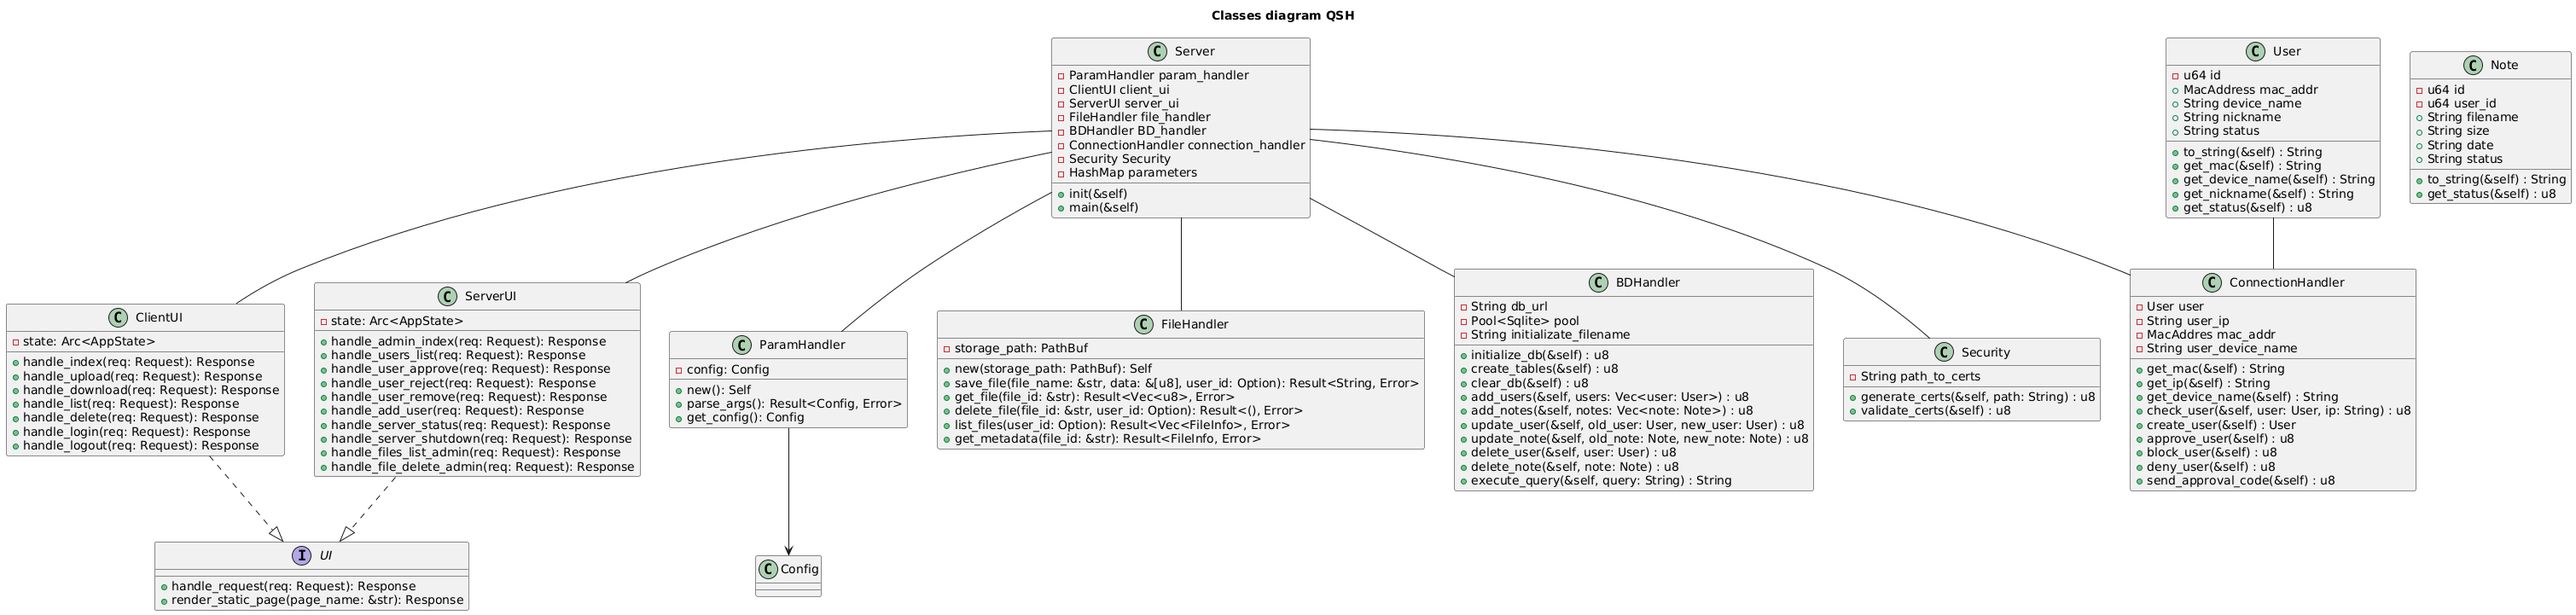
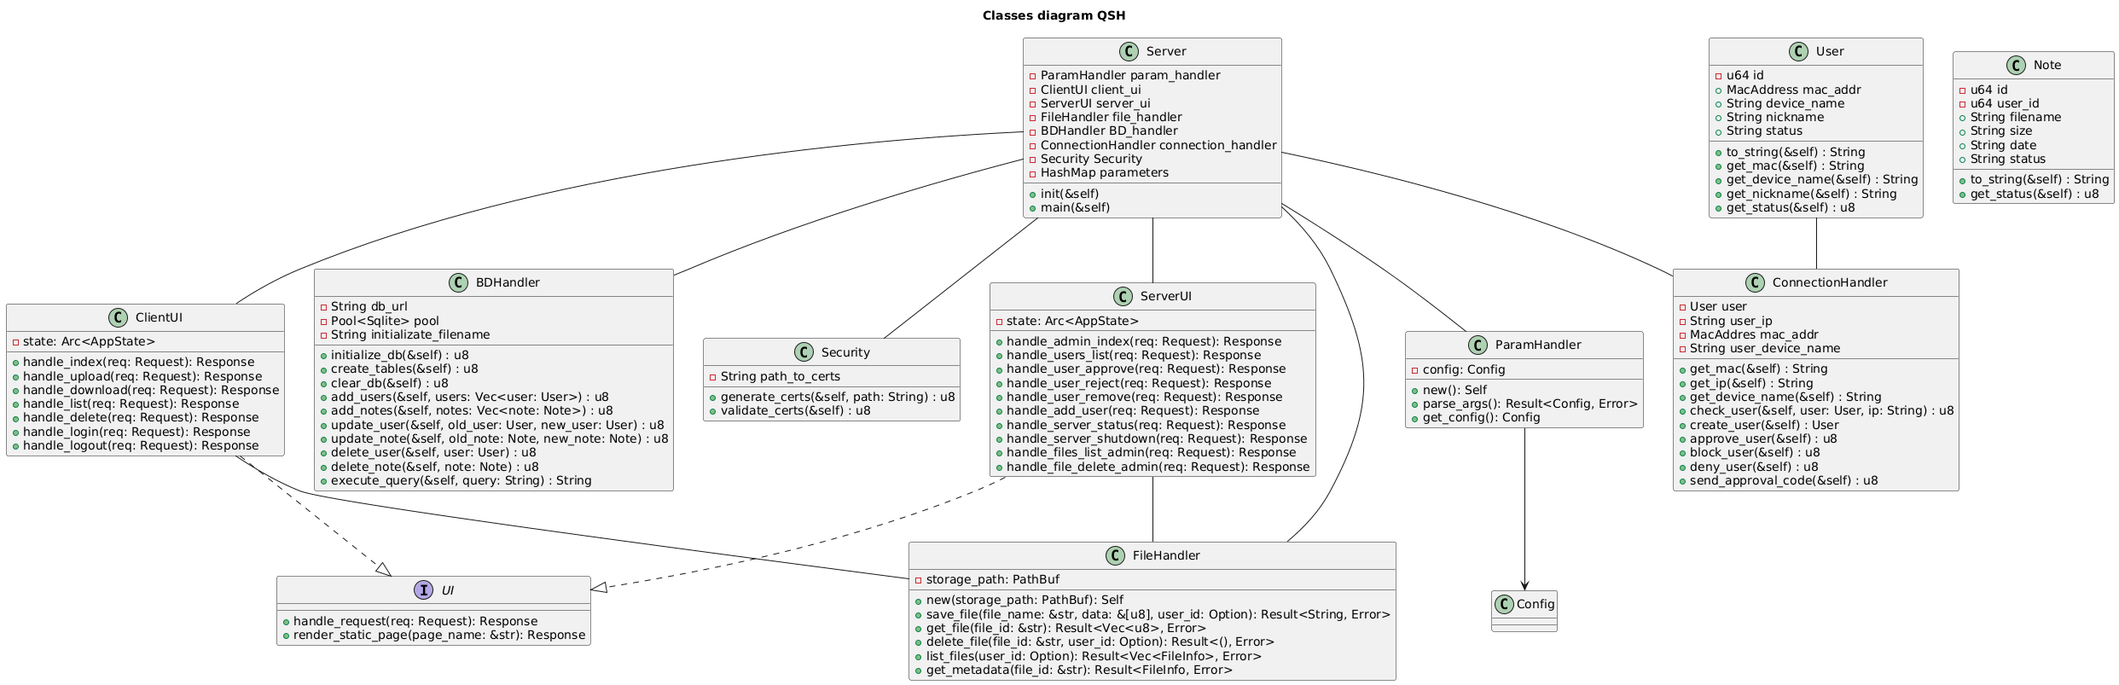
Docs: Fixed classes diagram, added class relations

diff --git a/docs/classes_diagram.md b/docs/classes_diagram.md
@@ -1,6 +1,5 @@
 ```
 @startuml
-
 interface UI {
   + handle_request(req: Request): Response
   + render_static_page(page_name: &str): Response
@@ -141,11 +140,11 @@ srv -- ParamHandler
 srv -- FileHandler
 srv -- ClientUI
 srv -- ServerUI
+ClientUI -- FileHandler
+ServerUI -- FileHandler
 
 ClientUI ..|> UI
 ServerUI ..|> UI
 ParamHandler --> Config
-
-
 @enduml
 ```
